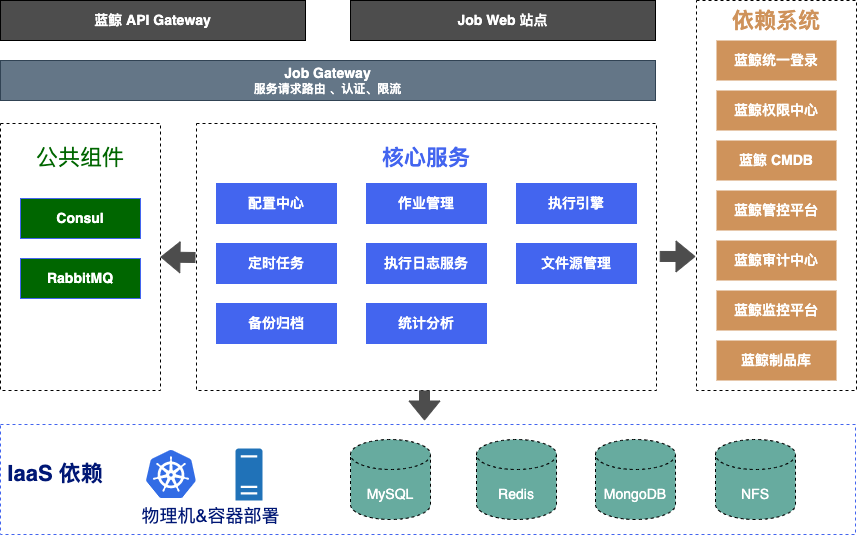
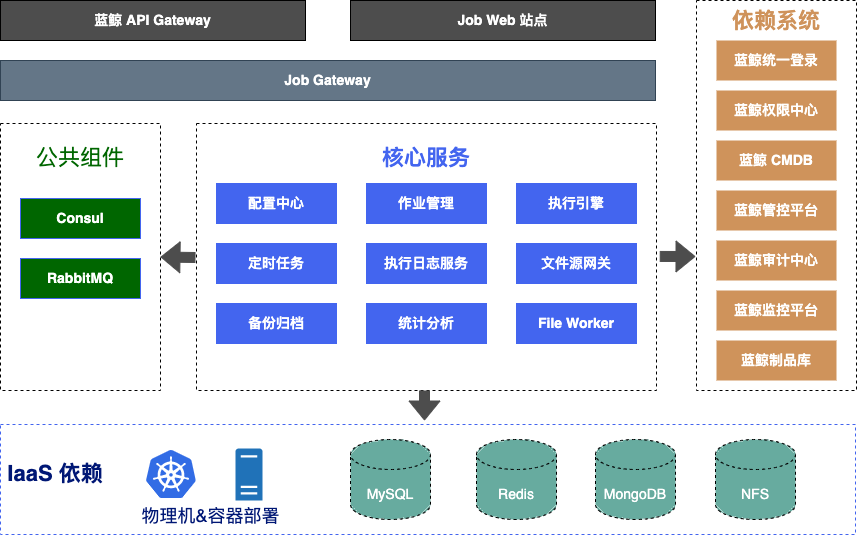
doc: 更新开发架构文档 #3124

Changed region(s): [[0.5764, 0.5682, 0.7585, 0.6579], [0.273, 0.1196, 0.4854, 0.1794], [0.6674, 0.4785, 0.7281, 0.5084]]

diff --git a/docs/overview/architecture.md b/docs/overview/architecture.md
@@ -3,7 +3,7 @@
 [English](architecture.en.md) | 简体中文
 
 ## 介绍
-蓝鲸作业平台(简称**bk-job** )是蓝鲸的**基础原子****平台**之一，通过蓝鲸管控平台(GSE)的**“文件管道”和“命令管道”**，提供了作业编排、脚本执行、文件分发等**能力**。
+蓝鲸作业平台(简称**bk-job** )是蓝鲸的**基础原子平台**之一，通过蓝鲸管控平台(GSE)的**“文件管道”和“命令管道”**，提供了作业编排、脚本执行、文件分发等能力。
 
 
 ![BluekingArchitecture](../resource/img/bk_architecture_cn.png)
@@ -32,11 +32,12 @@
   - **定时任务：** 定时任务微服务，基于Quartz定时引擎，实现bk-job的定时任务调度与管理。
   - **备份归档：** 备份管理微服务，负责bk-job中的作业导入导出及作业执行流水历史数据的定期归档任务。
   - **统计分析：** 统计分析微服务，为首页异常作业提示与运营分析模块提供后台接口，调度大量定时任务从其他微服务模块获取元数据进行分析与统计，生成分析结果数据与统计数据，为bk-job提供运营数据支撑、提高平台易用性。
-  - **文件源管理：** 第三方文件源网关微服务，通过与FileWorker通信对接多种不同类型的第三方文件源（如对象存储、文件系统存储等），负责调度文件源文件下载任务，与执行引擎配合完成第三方文件源文件分发。
+  - **job-file-gateway：** 文件网关微服务，通过与FileWorker通信对接多种不同类型的第三方文件源（如对象存储、文件系统存储等），负责调度文件源文件下载任务，与执行引擎配合完成第三方文件源文件分发。
+  - **job-file-worker：** 文件源接入点，独立于其他bk-job后台微服务的可扩展模块，可部署多个实例，与文件网关进行通信，对接不同类型的第三方文件源，是文件下载任务的执行者。
 
 ### 存储、基础中间件
 
-  - **Consul：**仅用于物理部署方式，用作服务发现。需要搭建Consul Server， 以及在bk-job微服务部署的所在机器上同时安装Consul并以 Agent方式运行。
+  - **Consul：** 仅用于物理部署方式，用作服务发现。需要搭建Consul Server， 以及在bk-job微服务部署的所在机器上同时安装Consul并以 Agent方式运行。
   - **RabbitMQ：** 消息队列服务。作业执行模块使用 RabbitMQ 实现基于消息的事件驱动任务调度引擎
   - **MySQL：** bk-job的主数据库存储，存储微服务的关系型数据。
   - **Redis：** 分布式缓存，用于实现分布式锁、数据缓存等。

diff --git a/docs/overview/architecture.en.md b/docs/overview/architecture.en.md
@@ -30,11 +30,12 @@ Written in Java, featuring microservice architecture of Spring Cloud. Here is a 
   - **job-crontab:** Scheduled Task Microservice. Task scheduling and management of BK-job based on the Quartz engine.
   - **job-backup:** Backup Management Microservice: Imports and exports jobs in bk-job and archives job execution history on a regular basis.
   - **job-analysis:** Statistical Analysis Microservice. Provides backend access to job error message on the main page and operation analysis module; dispatches timed tasks; acquires and analyzes the metadata from other microservices; generates analysis result and statistics; provides data for the operation of bk-job; improves accessibility of the platform.
-  - **file-source:** Third File Source Microservice: Connects with various third party file sources via FileWorker (object-based storage, file system storage, etc.); schedules the file downloading tasks from file source; works with the execution engine to distribute files from third party file source.
+  - **job-file-gateway:** File Gateway Microservice: Connects with various third party file sources via FileWorker (object-based storage, file system storage, etc.); schedules the file downloading tasks from file source; works with the execution engine to distribute files from third party file source.
+  - **job-file-worker:** An access point, an expandable module independent of other bk-job backend microservice; multiple instances can be set up; communicate with the file gateway to connect to various types of third party file sources; executes file downloading tasks.
 
 ### Storage And Middleware
 
-  - **Consul:**Phisical deployment only, used as service discovery. You need to build a Consul Server and install Consul on the machine where bk-job microservices are deployed, and run it as Agent.
+  - **Consul:** Phisical deployment only, used as service discovery. You need to build a Consul Server and install Consul on the machine where bk-job microservices are deployed, and run it as Agent.
   - **RabbitMQ:** Core Message Queue Service. Job-execute module uses RabbitMQ to implement a message-based event-driven task scheduling engine.
   - **MySQL:** bk-job's primary database. It store the relational data of job microservices.
   - **Redis:** Distributed Cache. Used for distributed locks and data caching.
